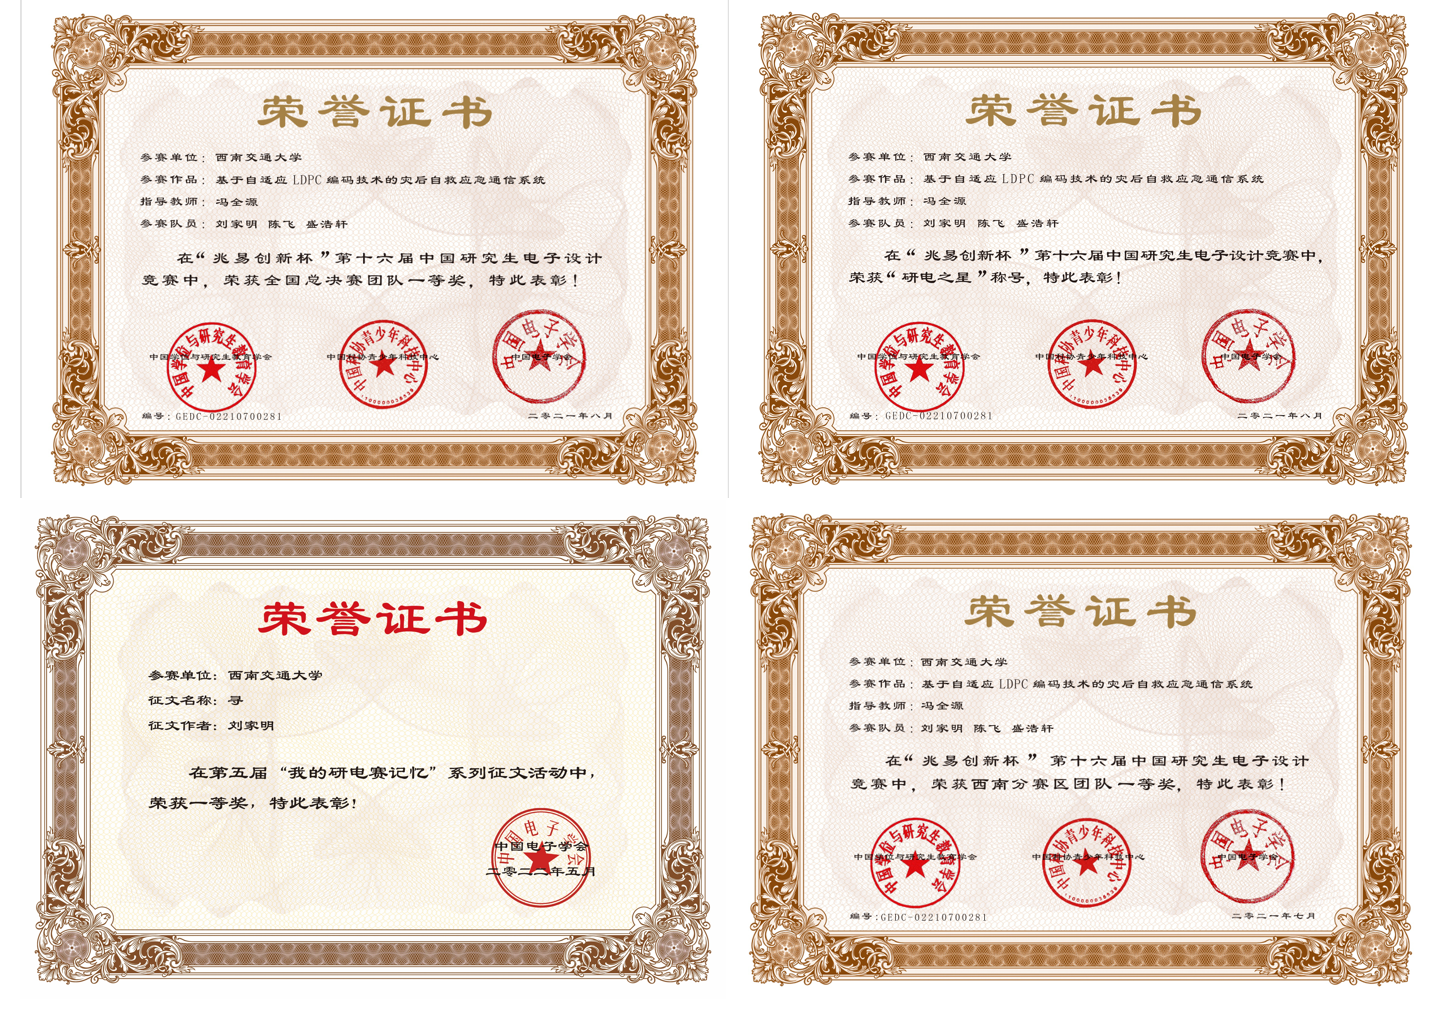
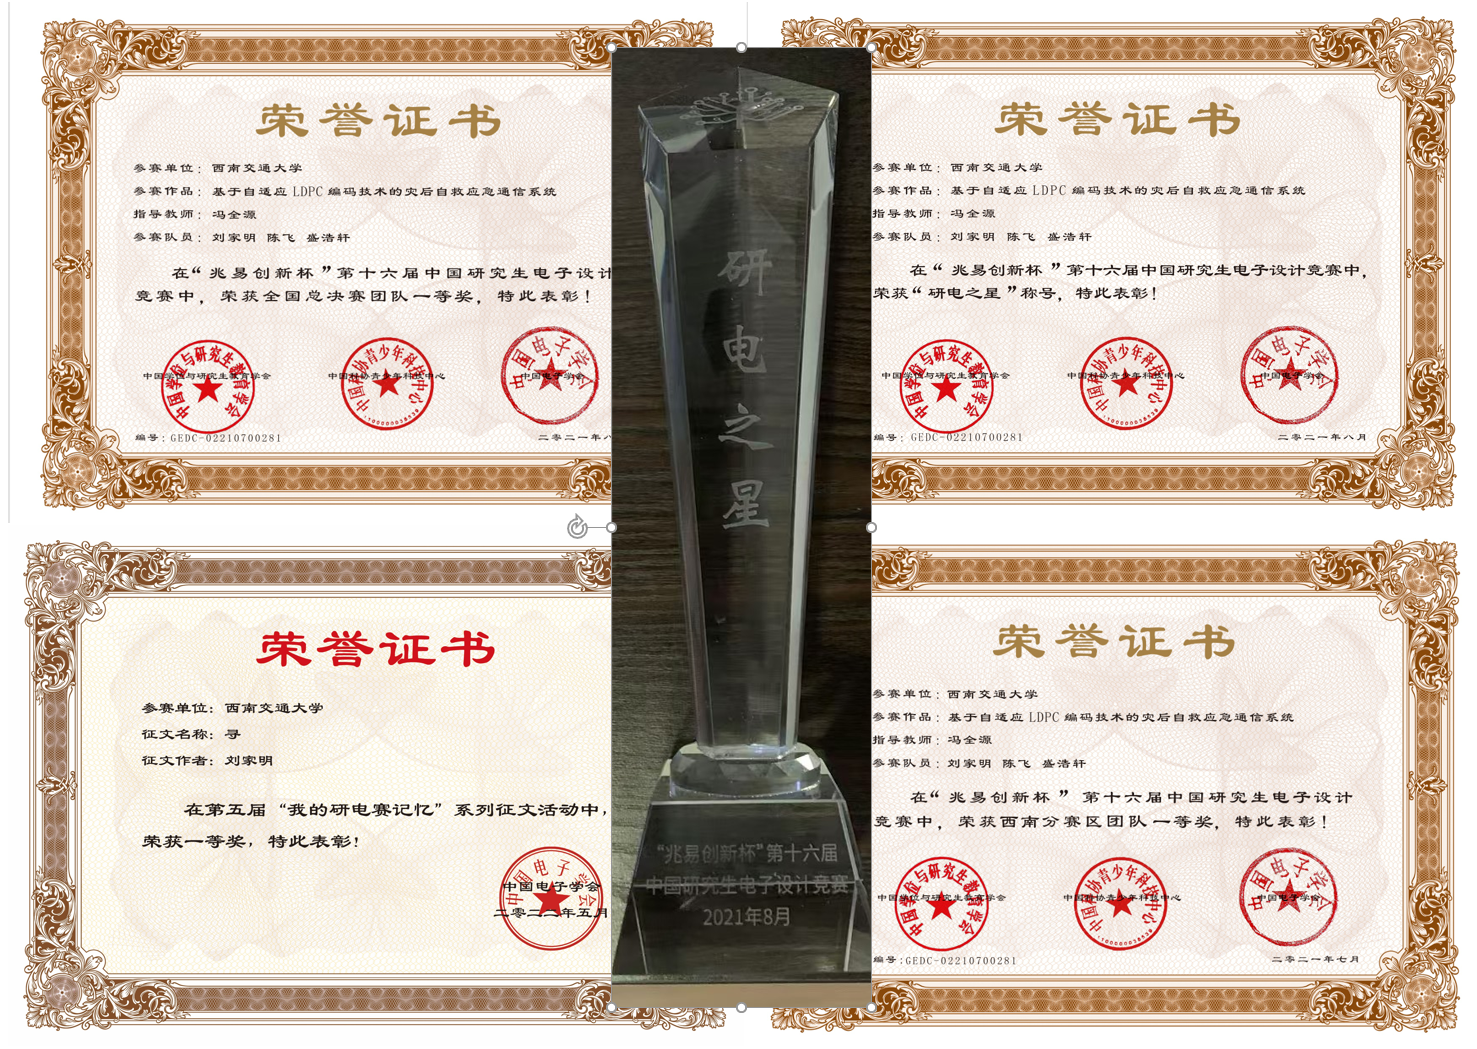
241127:update:17

diff --git a/content/awards/2022-China Graduate Electronics Design Contest/index.md b/content/awards/2022-China Graduate Electronics Design Contest/index.md
@@ -5,12 +5,9 @@ external_link:
 tags:
   - Student-Leader
 ---
-      - National TOP 2 (Star) - 研电之星奖杯
-  
-      - National First Prize - 全国一等奖
-  
-      - National First Prize for Essay - 征文-全国一等奖
-  
-      - The First Prize of Southwest Region - 西南赛区一等奖
+- **National TOP 2 (Star)** - **研电之星奖杯**
+- **National First Prize** - **全国一等奖**
+- National First Prize for Essay - 征文-全国一等奖
+- The First Prize of Southwest Region - 西南赛区一等奖
 
 <!--more-->

diff --git a/content/awards/2020-China College IC Competition/index.md b/content/awards/2020-China College IC Competition/index.md
@@ -1,0 +1,13 @@
+---
+title: China College IC Competition - 全国大学生集成电路创新创业大赛
+date: 2020-08-01
+external_link: 
+tags:
+  - Student-Leader
+---
+- **National Grand Prize** - **全国特等奖**
+- **National Grand Prize of UNISOC** - **紫光展锐企业大奖**
+- The First Prize of Southwest Region - 西南赛区一等奖
+- Chengdu Hi-Tech Zone Special Award - 成都高新区特别奖
+
+<!--more-->

diff --git a/content/awards/2021-China Postgraduate IC Innovation Competition/index.md b/content/awards/2021-China Postgraduate IC Innovation Competition/index.md
@@ -6,7 +6,6 @@ tags:
   - Student-Leader
 ---
 - **National First Prize of X-EPIC** - **芯华章专项一等奖**
-
 - National Second Prize - 全国二等奖
 
 <!--more-->

diff --git a/content/awards/2020-China National Scholarship/index.md b/content/awards/2020-China National Scholarship/index.md
@@ -1,0 +1,10 @@
+---
+title: China National Scholarship - 国家奖学金
+date: 2020-10-01
+external_link: 
+tags:
+  - Student
+---
+
+
+<!--more-->

diff --git a/content/awards/2021-China National Scholarship/index.md b/content/awards/2021-China National Scholarship/index.md
@@ -1,0 +1,10 @@
+---
+title: China National Scholarship - 国家奖学金
+date: 2021-10-01
+external_link: 
+tags:
+  - Student
+---
+
+
+<!--more-->

diff --git a/content/awards/2021-Intel Fellowship/index.md b/content/awards/2021-Intel Fellowship/index.md
@@ -1,0 +1,10 @@
+---
+title: Intel Fellowship - 英特尔奖学金
+date: 2021-10-01
+external_link: 
+tags:
+  - Student
+---
+
+
+<!--more-->
